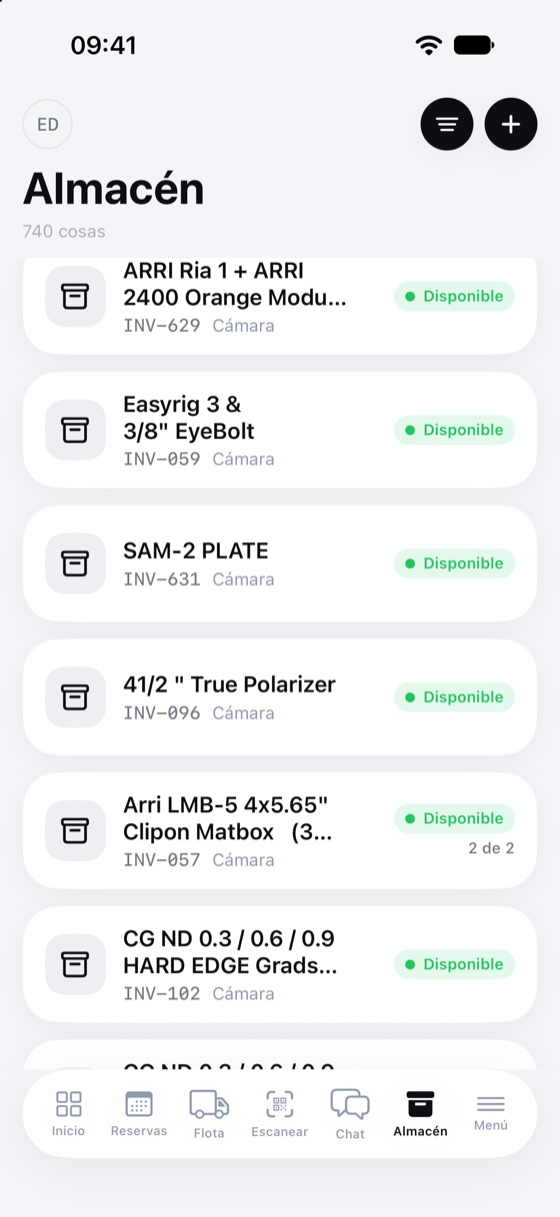
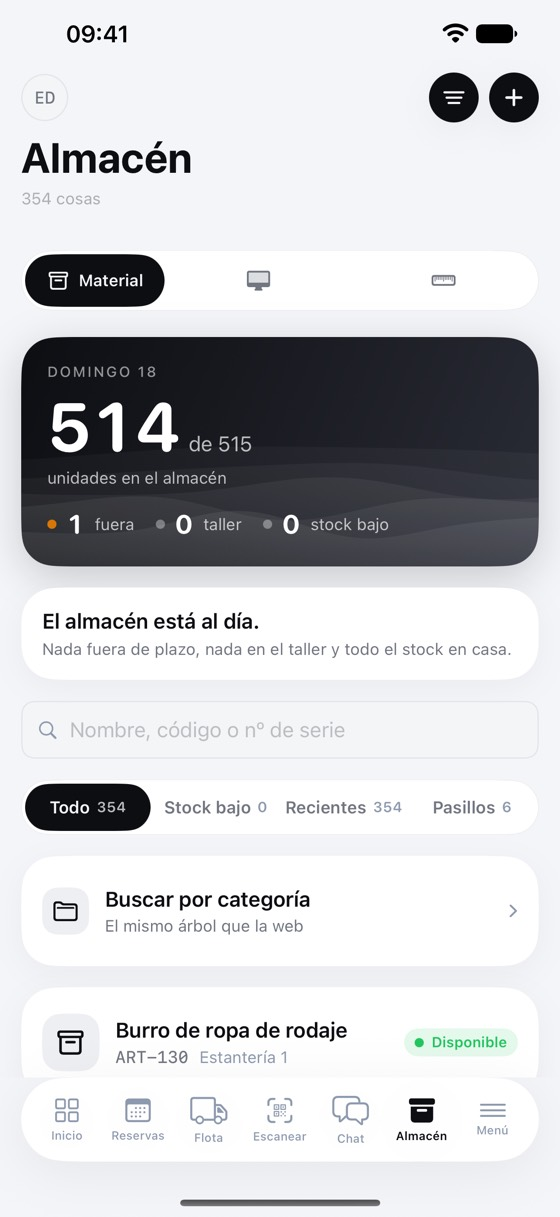
Que la web no enseñe a ningún cliente: una productora inventada
Las capturas salían de una copia ANONIMIZADA de los datos de un cliente, y me
equivoqué al dar eso por limpio. Cambiaba los nombres, sí, pero dejaba dos
cosas que son igual de suyas:

- EL CATÁLOGO. La captura del almacén enseñaba su material artículo por
  artículo y en su orden. Un modelo de cámara suelto es público; la lista de
  lo que una casa tiene, no: es lo que miraría un competidor.
- LAS CIFRAS. «29 vehículos», «819 artículos», «164 personas» dicen el tamaño
  del negocio.

Así que ahora no se anonimiza: se INVENTA una productora entera sobre una
estructura de datos que funciona (`simular.py`, en el repositorio de la
aplicación). Su catálogo se compone de piezas, su flota son doce vehículos con
matrículas que llevan vocales —las de verdad no las llevan, así que no pueden
ser de nadie—, y su árbol de categorías y su tarifario son de cero. Doce
vehículos, 354 artículos, 41 personas. Las tres capturas se rehicieron contra
ese servidor, y el mockup del navegador lleva ahora las mismas cifras, que
antes decía dieciocho vehículos donde el teléfono decía doce.

De paso aparecieron tres cosas que el anonimizador no tocaba y que sí son
identificadores: dieciocho ICCID de SIM reales en las líneas, el operador con
el que trabajan, y la numeración de sus presupuestos.

Y lo que ataba la web al cliente fuera de las capturas:

- «Iniciar sesión» llevaba a su subdominio, escrito a mano, y salía en el
  código, en la etiqueta canónica y en la barra de direcciones. `entrar.html`
[…]

diff --git a/entrar.html b/entrar.html
@@ -3,44 +3,125 @@
 <head>
 <meta charset="utf-8">
 <meta name="viewport" content="width=device-width, initial-scale=1">
-<title>Stokit · entrando</title>
+<title>Stokit · entrar</title>
 <meta name="robots" content="noindex">
 <link rel="icon" type="image/png" href="favicon.png">
 <!-- ══════════════════════════════════════════════════════════════════════════
-     Esto era el «¿de qué empresa eres?» que llevaba a cada subdominio.
+     «¿De qué productora eres?».
 
-     Hoy solo hay una empresa, así que preguntarlo era un paso que no decidía
-     nada. La página se queda —redirigiendo— y no se borra a propósito: hay
-     marcadores y enlaces viejos apuntando aquí, y un 404 en la puerta de
-     entrada es la peor manera de recibir a alguien que quiere trabajar.
+     Esta página existía, llevaba a un subdominio escrito a mano y se convirtió
+     en una redirección cuando solo había una empresa. Eso ataba la web de
+     presentación —que es del PRODUCTO— al nombre de un cliente concreto: salía
+     en el código, en la etiqueta canónica y en la barra de direcciones de
+     cualquiera que pulsara «Iniciar sesión». Stokit se vende a más de una
+     productora, así que vuelve a preguntar.
 
-     Tres capas para que funcione siempre: la cabecera del navegador, el guion
-     y, si no hay ninguna de las dos, un enlace a mano.
+     Cada casa tiene su propia dirección, <su-nombre>.stokit.es. Se recuerda la
+     última en este navegador, así que quien entra a diario escribe una vez y
+     ya; y se queda el enlace a mano por si el guion no corre.
      ══════════════════════════════════════════════════════════════════════ -->
-<meta http-equiv="refresh" content="0; url=https://palmapictures.stokit.es/">
-<link rel="canonical" href="https://palmapictures.stokit.es/">
 <style>
-  :root { color-scheme: light dark; --papel: #eef0f4; --tinta: #14161f; --tinta-2: #4e5566; --sello: #c8102e; }
-  @media (prefers-color-scheme: dark) { :root { --papel: #0b0b0d; --tinta: #eaecf2; --tinta-2: #9aa2b4; --sello: #ff4d5f; } }
-  html, body { height: 100%; }
-  body {
-    margin: 0; display: grid; place-items: center; gap: 0;
-    background: var(--papel); color: var(--tinta);
-    font-family: "IBM Plex Sans", ui-sans-serif, system-ui, -apple-system, sans-serif;
+  :root {
+    color-scheme: light dark;
+    --papel:#eef0f4; --hoja:#fff; --tinta:#14161f; --tinta-2:#4e5566; --tinta-3:#767d8d;
+    --regla:#c6ccd7; --sello:#c8102e; --sobre-sello:#fff;
   }
-  .caja { text-align: center; padding: 26px; }
-  .marca { display: inline-flex; align-items: center; gap: 10px; font-weight: 700; letter-spacing: -0.02em; font-size: 19px; }
-  .punto { width: 9px; height: 9px; background: var(--sello); }
-  p { margin: 18px 0 0; color: var(--tinta-2); font-size: 15px; }
-  a { color: var(--tinta); }
+  @media (prefers-color-scheme: dark) {
+    :root { --papel:#0b0b0d; --hoja:#131418; --tinta:#eaecf2; --tinta-2:#a6adbc; --tinta-3:#838a9a;
+            --regla:#2b303b; --sello:#ff4d5f; --sobre-sello:#14161f; }
+  }
+  * { box-sizing:border-box; }
+  html, body { height:100%; }
+  body {
+    margin:0; display:grid; place-items:center; padding:24px;
+    background:var(--papel); color:var(--tinta);
+    font-family:"IBM Plex Sans", ui-sans-serif, system-ui, -apple-system, sans-serif;
+  }
+  .caja { width:100%; max-width:380px; }
+  .marca { display:inline-flex; align-items:center; gap:10px; margin-bottom:26px; }
+  .marca svg { width:20px; height:20px; }
+  .marca svg path { fill:currentColor; }
+  .marca b { font-family:Archivo, ui-sans-serif, system-ui, sans-serif; font-weight:800; font-size:17px; letter-spacing:-.035em; }
+  h1 { margin:0 0 8px; font-family:Archivo, ui-sans-serif, system-ui, sans-serif;
+       font-size:27px; font-weight:700; letter-spacing:-.035em; line-height:1.1; }
+  p.pie { margin:0 0 22px; color:var(--tinta-2); font-size:14.5px; line-height:1.55; }
+  label { display:block; font-family:"IBM Plex Mono", ui-monospace, monospace;
+          font-size:10.5px; font-weight:600; letter-spacing:.2em; text-transform:uppercase;
+          color:var(--tinta-3); margin-bottom:8px; }
+  .campo { display:flex; align-items:stretch; border:1px solid var(--regla); background:var(--hoja); }
+  .campo:focus-within { border-color:var(--tinta); }
+  .campo input {
+    flex:1; min-width:0; border:0; background:transparent; color:var(--tinta);
+    padding:0 12px; height:48px; font:inherit; font-size:16px; outline:none;
+  }
+  .campo .sufijo { display:flex; align-items:center; padding-inline-end:12px;
+                   font-family:"IBM Plex Mono", monospace; font-size:13px; color:var(--tinta-3); }
+  button {
+    margin-top:12px; width:100%; height:48px; border:1px solid var(--tinta);
+    background:var(--tinta); color:var(--papel); cursor:pointer;
+    font-family:"IBM Plex Mono", monospace; font-size:11.5px; font-weight:600;
+    letter-spacing:.11em; text-transform:uppercase;
+    transition:background .17s, border-color .17s, color .17s;
+  }
+  button:hover { background:var(--sello); border-color:var(--sello); color:var(--sobre-sello); }
+  .aviso { margin-top:12px; font-size:13px; color:var(--sello); min-height:1.2em; }
+  .atras { margin-top:26px; font-size:13.5px; }
+  .atras a { color:var(--tinta-2); }
 </style>
 </head>
 <body>
   <div class="caja">
-    <span class="marca"><i class="punto"></i> Stokit</span>
-    <p>Llevándote a tu Stokit…</p>
-    <p><a href="https://palmapictures.stokit.es/">Entrar ahora</a></p>
+    <span class="marca">
+      <svg viewBox="0 0 100 100" aria-hidden="true"><path d="M0 0 H100 V41.9 H73.9 V26.7 H27.6 V41.9 H0 Z"/><path d="M0 58.1 H27.6 V71.1 H73.9 V58.1 H100 V100 H0 Z"/></svg>
+      <b>Stokit</b>
+    </span>
+
+    <h1>¿De qué productora eres?</h1>
+    <p class="pie">Cada casa tiene su propia dirección. Escribe la tuya y te llevo.</p>
+
+    <form id="f" autocomplete="on">
+      <label for="casa">Tu productora</label>
+      <div class="campo">
+        <input id="casa" name="casa" inputmode="url" autocapitalize="none"
+               autocorrect="off" spellcheck="false" placeholder="tuproductora" required>
+        <span class="sufijo">.stokit.es</span>
+      </div>
+      <button type="submit">Entrar</button>
+      <p class="aviso" id="aviso" role="status"></p>
+    </form>
+
+    <p class="atras"><a href="/">Volver a Stokit</a></p>
   </div>
-  <script>location.replace('https://palmapictures.stokit.es/');</script>
+
+<script>
+(function () {
+  'use strict';
+  var f = document.getElementById('f'), campo = document.getElementById('casa'), aviso = document.getElementById('aviso');
+
+  /* Quien entra todos los días no tiene por qué escribirlo cada vez. */
+  try {
+    var ultima = localStorage.getItem('stokit_casa');
+    if (ultima) campo.value = ultima;
+  } catch (e) {}
+  campo.focus();
+  campo.select();
+
+  f.addEventListener('submit', function (e) {
+    e.preventDefault();
+    /* Se acepta lo que escriba la gente —«Tu Productora», con espacios, o
+       «tuproductora.stokit.es» entero— y se queda solo la etiqueta. */
+    var n = campo.value.trim().toLowerCase()
+      .replace(/^https?:\/\//, '')
+      .replace(/\.stokit\.es.*$/, '')
+      .replace(/\/.*$/, '')
+      .normalize('NFD').replace(/[̀-ͯ]/g, '')
+      .replace(/[^a-z0-9-]+/g, '-')
+      .replace(/^-+|-+$/g, '');
+    if (!n) { aviso.textContent = 'Escribe el nombre de tu productora.'; campo.focus(); return; }
+    try { localStorage.setItem('stokit_casa', n); } catch (e) {}
+    location.href = 'https://' + n + '.stokit.es/';
+  });
+})();
+</script>
 </body>
 </html>

diff --git a/index.html b/index.html
@@ -371,10 +371,16 @@ section { padding-block:var(--paso); }
    1284×2778 y reducida a 560 de ancho (el doble de lo que ocupa en pantalla,
    para que en una retina no se vea blanda).
 
-   Las capturas salen de un Stokit local cargado con una COPIA ANONIMIZADA de
-   los datos: misma forma y mismo volumen, pero cada nombre, cada matrícula y
-   cada correo son inventados. El guion que lo hace está en el repositorio de
-   la aplicación; si hay que repetirlas, se vuelve a pasar antes.
+   Las capturas salen de un Stokit local cargado con una PRODUCTORA INVENTADA.
+   Al principio se usó una copia anonimizada de los datos de un cliente, y eso
+   estaba mal: cambiaba los nombres pero dejaba el catálogo —la lista de lo que
+   esa casa tiene, artículo por artículo— y las cifras, que dicen el tamaño del
+   negocio. Un modelo de cámara es público; la lista de lo que uno tiene, no.
+
+   Así que ahora la empresa no existe: su catálogo, su flota, su gente y su
+   tamaño se generan de cero. Los guiones están en el repositorio de la
+   aplicación (`anonimizar.py` y `simular.py`); si hay que repetir una captura,
+   se vuelve a pasar la cadena entera antes.
 
    Medidas: proporción de pantalla 1284:2778, bisel del 3,5 % del ancho, radio
    exterior del 13,5 % y la isla al 29 % del ancho, que es lo que mide en un
@@ -435,7 +441,7 @@ section { padding-block:var(--paso); }
 .via-hito { position:absolute; top:18px; left:var(--x); width:9px; height:9px; margin-inline-start:-4.5px; border:1px solid var(--regla); background:var(--hoja); transition:background .3s,border-color .3s,transform .3s cubic-bezier(.2,1.4,.4,1); }
 .via-hito.pasado { background:var(--sello); border-color:var(--sello); transform:scale(1.25); }
 .via-nodo { position:absolute; top:14px; left:var(--via-nodo,12.5%); margin-inline-start:-8.5px; width:17px; height:17px; background:var(--sello); box-shadow:0 0 0 4px color-mix(in srgb,var(--sello) 22%,transparent); transition:left .12s linear; }
-.via-nodo::after { content:'ARRI Alexa 35'; position:absolute; left:50%; bottom:calc(100% + 9px); transform:translateX(-50%); padding:3px 8px; white-space:nowrap; font-family:"IBM Plex Mono",monospace; font-size:10px; font-weight:600; letter-spacing:.1em; text-transform:uppercase; background:var(--sello); color:var(--sobre-sello); }
+.via-nodo::after { content:'Cuerpo de cámara A'; position:absolute; left:50%; bottom:calc(100% + 9px); transform:translateX(-50%); padding:3px 8px; white-space:nowrap; font-family:"IBM Plex Mono",monospace; font-size:10px; font-weight:600; letter-spacing:.1em; text-transform:uppercase; background:var(--sello); color:var(--sobre-sello); }
 .eslabones { display:grid; gap:1px; background:var(--regla-fina); border:1px solid var(--regla-fina); border-top:0; }
 @media (min-width:900px){ .eslabones { grid-template-columns:repeat(4,1fr); } }
 .eslabon { position:relative; background:var(--hoja); padding:28px 22px; display:grid; gap:8px; align-content:start; overflow:hidden; }
@@ -597,9 +603,9 @@ footer { border-top:1px solid var(--regla); background:var(--hoja); }
         </div>
 
         <div class="mini-cifras">
-          <div class="mini-cifra"><b>64</b><span>Personas</span></div>
-          <div class="mini-cifra"><b>18</b><span>Vehículos</span></div>
-          <div class="mini-cifra"><b>642</b><span>Artículos</span></div>
+          <div class="mini-cifra"><b>41</b><span>Personas</span></div>
+          <div class="mini-cifra"><b>12</b><span>Vehículos</span></div>
+          <div class="mini-cifra"><b>354</b><span>Artículos</span></div>
           <div class="mini-cifra"><b>47</b><span>Presupuestos</span></div>
         </div>
 
@@ -642,15 +648,15 @@ footer { border-top:1px solid var(--regla); background:var(--hoja); }
       <div class="marco rev d2" data-lejos="0.08" aria-hidden="true">
         <div class="marco-barra"><i></i><i></i><i></i><span class="marco-url">tuproductora.stokit.es/inventario</span></div>
         <div class="inv-deps">
-          <div class="inv-dep on"><b>Todo</b><span>642 fichas</span><div class="inv-bar"><i></i><i></i><i></i></div></div>
-          <div class="inv-dep"><b>Cámara</b><span>214 fichas</span><div class="inv-bar"><i></i><i></i><i></i></div></div>
-          <div class="inv-dep"><b>Luces</b><span>186 fichas</span><div class="inv-bar"><i></i><i></i><i></i></div></div>
-          <div class="inv-dep"><b>Grip</b><span>98 fichas</span><div class="inv-bar"><i></i><i></i><i></i></div></div>
+          <div class="inv-dep on"><b>Todo</b><span>354 fichas</span><div class="inv-bar"><i></i><i></i><i></i></div></div>
+          <div class="inv-dep"><b>Cámara</b><span>142 fichas</span><div class="inv-bar"><i></i><i></i><i></i></div></div>
+          <div class="inv-dep"><b>Luces</b><span>118 fichas</span><div class="inv-bar"><i></i><i></i><i></i></div></div>
+          <div class="inv-dep"><b>Grip</b><span>94 fichas</span><div class="inv-bar"><i></i><i></i><i></i></div></div>
         </div>
         <table class="mini-tabla">
           <thead><tr><th>Código</th><th>Nombre</th><th>Categoría</th><th>Estado</th></tr></thead>
           <tbody>
-            <tr><td>CAM-014</td><td>ARRI Alexa 35</td><td>Cámara / Cuerpos</td><td><span class="mini-pill uso">En rodaje</span></td></tr>
+            <tr><td>CAM-014</td><td>Cuerpo de cámara A</td><td>Cámara / Cuerpos</td><td><span class="mini-pill uso">En rodaje</span></td></tr>
             <tr><td>CAM-061</td><td>Juego de ópticas 6×</td><td>Cámara / Ópticas</td><td><span class="mini-pill ok">En casa</span></td></tr>
             <tr><td>LUZ-072</td><td>Kit HMI 2.5 kW</td><td>Luces / Descarga</td><td><span class="mini-pill uso">En rodaje</span></td></tr>
             <tr><td>GRP-118</td><td>Dolly con vías 12 m</td><td>Grip / Travelling</td><td><span class="mini-pill av">En el taller</span></td></tr>
@@ -790,10 +796,10 @@ footer { border-top:1px solid var(--regla); background:var(--hoja); }
         <div class="movil-marco">
           <span class="movil-pantalla">
             <img src="app/vehiculo.jpg" width="560" height="1217" loading="lazy" decoding="async"
-                 alt="La ficha de un vehículo en el iPhone: la furgoneta en grande y, debajo, cuatro tarjetas con la ITV que queda, los kilómetros, el seguro y los partes abiertos.">
+                 alt="Los vehículos en el iPhone: un mapa con la flota situada en la base, un contador con cuántos hay allí, y debajo la lista con su matrícula, su tipo y si están libres.">
           </span>
         </div>
-        <p class="movil-pie">Un vehículo</p>
+        <p class="movil-pie">Vehículos</p>
       </div>
 
       <div class="movil detras" data-lejos="0.13">
@@ -870,7 +876,7 @@ footer { border-top:1px solid var(--regla); background:var(--hoja); }
           <div class="via-nodo" id="viaNodo"></div>
         </div>
         <div class="eslabones" id="eslabones">
-          <div class="eslabon"><span class="campo">01 · Material</span><b>ARRI Alexa 35</b><span>Salida registrada con revisión fotográfica, escaneando su QR.</span></div>
+          <div class="eslabon"><span class="campo">01 · Material</span><b>Cuerpo de cámara A</b><span>Salida registrada con revisión fotográfica, escaneando su QR.</span></div>
           <div class="eslabon"><span class="campo">02 · Flota</span><b>Furgoneta 01</b><span>Vehículo asignado y bloqueado en el calendario esos días.</span></div>
           <div class="eslabon"><span class="campo">03 · Rodaje</span><b>Spot Meridiano</b><span>El proyecto de destino, con sus fechas y su equipo.</span></div>
           <div class="eslabon"><span class="campo">04 · Presupuesto</span><b>Línea del cliente</b><span>Al precio del catálogo vigente en esa fecha, no al del rodaje anterior.</span></div>

diff --git a/manuales/material.html b/manuales/material.html
@@ -121,7 +121,7 @@
       <p>
         Antes los kits se hacían con <strong>categorías</strong>: hay 57 ramas del árbol con
         varios artículos dentro haciendo de kit, y por eso muchas categorías se llaman «Arri
-        Alexa 35» o «Mattebox» y el desplegable de categorías parece una lista de material.
+        Cuerpo A» o «Matte box» y el desplegable de categorías parece una lista de material.
       </p>
       <p>
         Para pasarlas: entra en la categoría y, al final de la ruta, pulsa
@@ -130,7 +130,7 @@
         categoría se queda donde estaba, y para deshacerlo se borra el artículo nuevo.
       </p>
       <p>
-        <strong>Hay que ir una a una, y es a propósito.</strong> «Camera / Arri Alexa 35» con
+        <strong>Hay que ir una a una, y es a propósito.</strong> «Cámara / Cuerpos» con
         sus 24 artículos es un kit; «Facilities / Support» con 33 es una categoría de verdad, y
         ninguna regla automática las distingue. Convertirlas todas de golpe llenaría el
         inventario de kits que no lo son.
@@ -243,7 +243,7 @@
       <span class="ojo-tit">Un QR para el pack entero</span>
       <p>
         La plantilla <strong>Pack de material</strong> imprime una ficha por
-        <em>categoría</em>: «Camera › Arri Alexa Mini» con la lista de lo que tiene
+        <em>categoría</em>: «Cámara › Cuerpos» con la lista de lo que tiene
         que haber dentro y un QR. Al escanearlo se abre el inventario ya filtrado
         por esa categoría, así que se ve de un vistazo qué debería llevar el flight
         y qué falta. En la etiqueta pequeña caben tres líneas de contenido y el

diff --git a/manuales/flota.html b/manuales/flota.html
@@ -74,9 +74,9 @@
       <span class="nota-tit">La insignia dice si puedes contar con él</span>
       <p>
         En la lista, un vehículo reservado lleva su rodaje <strong>y las
-        fechas</strong>: «En rodaje · Trivago · 2–8 sep» si está fuera ahora, o
-        «Reservado · Netflix · 20–30 oct» —en gris— si es para más adelante. Antes
-        decía solo «En Proyecto · Trivago» y únicamente para lo de hoy, así que
+        fechas</strong>: «En rodaje · Campaña Solsticio · 2–8 sep» si está fuera ahora, o
+        «Reservado · Serie Levante · 20–30 oct» —en gris— si es para más adelante. Antes
+        decía solo «En Proyecto · Campaña Solsticio» y únicamente para lo de hoy, así que
         veinte días reservados el mes que viene no se veían en ninguna parte.
       </p>
     </div>
@@ -288,7 +288,7 @@
     <h2 id="calendario-pantalla">A pantalla completa</h2>
     <p>
       El calendario tiene su propia dirección:
-      <strong>palmapictures.stokit.es/calendario</strong>. Se abre sin barra
+      <strong>tuproductora.stokit.es/calendario</strong>. Se abre sin barra
       lateral y sin pestañas, con toda la ventana para la rejilla — como el
       Excel, que era un fichero y nada más.
     </p>

diff --git a/manuales/tecnologia.html b/manuales/tecnologia.html
@@ -364,7 +364,7 @@
     </p>
     <p>
       Cada línea lleva el <strong>logo de su operadora</strong> a color si en
-      «Compañía» pone algo reconocible: Movistar, Telefónica (también «TF»),
+      «Compañía» pone algo reconocible: Anuncio Norte, Telefónica (también «TF»),
       Vodafone, Orange, Yoigo, MásMóvil, Digi, O2, Pepephone, Lowi, Jazztel, Simyo o
       Lebara. Cualquier otro texto se enseña igual, con una ficha neutra y su
       nombre. La compañía se pone al añadir o editar la línea, o llega del Excel.
@@ -428,7 +428,7 @@
       <strong>Tecnología → MIFIs.</strong> Los routers portátiles: quién los tiene, en
       qué rodaje y desde cuándo. Dos vistas, <strong>Tablero</strong> y
       <strong>Tabla</strong>, y filtros por estado —Disponible, En uso, Avería,
-      Baja— y por compañía —Movistar, Vodafone, Orange, Yoigo, Otra.
+      Baja— y por compañía —Anuncio Norte, Vodafone, Orange, Yoigo, Otra.
     </p>
     <p>
       Arriba, las cifras del parque (libres, en rodaje, en reparación, sin PUK) y una

diff --git a/manuales/empezar.html b/manuales/empezar.html
@@ -49,8 +49,8 @@
     <h2 id="entrar">Entrar</h2>
     <p>
       Stokit no tiene una única dirección: <strong>cada empresa entra por la
-      suya</strong>. La de Palma Pictures es
-      <code>palmapictures.stokit.es</code>. Si entras por <code>stokit.es</code> a
+      suya</strong>. La tuya es
+      <code>tuproductora.stokit.es</code>. Si entras por <code>stokit.es</code> a
       secas verás la web de presentación, no la aplicación.
     </p>
     <ol class="pasos">
@@ -156,7 +156,7 @@
       Stokit se instala como una aplicación. No hay que bajar nada de la App Store:
     </p>
     <ol class="pasos">
-      <li>Abre <strong>palmapictures.stokit.es</strong> en <strong>Safari</strong>
+      <li>Abre <strong>tuproductora.stokit.es</strong> en <strong>Safari</strong>
         (en Chrome no sale la opción).</li>
       <li>Toca el botón de <strong>Compartir</strong>, el cuadrado con la flecha
         hacia arriba.</li>

diff --git a/manuales/buscar.js b/manuales/buscar.js
@@ -6,7 +6,7 @@ window.INDICE_MANUALES = [
  {
   "donde": "Empezar",
   "titulo": "Entrar",
-  "texto": "Stokit no tiene una única dirección: cada empresa entra por la suya . La de Palma Pictures es palmapictures.stokit.es . Si entras por…",
+  "texto": "Stokit no tiene una única dirección: cada empresa entra por la suya . La tuya es tuproductora.stokit.es . Si entras por…",
   "url": "empezar.html#entrar",
   "claves": [
    "login",
@@ -479,7 +479,7 @@ window.INDICE_MANUALES = [
  {
   "donde": "Flota",
   "titulo": "A pantalla completa",
-  "texto": "El calendario tiene su propia dirección: palmapictures.stokit.es/calendario . Se abre sin barra lateral y sin pestañas, con toda la ventana…",
+  "texto": "El calendario tiene su propia dirección: tuproductora.stokit.es/calendario . Se abre sin barra lateral y sin pestañas, con toda la ventana…",
   "url": "flota.html#calendario-pantalla",
   "claves": []
  },

diff --git a/manuales/sistema.html b/manuales/sistema.html
@@ -82,7 +82,7 @@
     </p>
     <ol class="pasos">
       <li><strong>+ Crear un enlace</strong> y ponle nombre: «Rodajes», «Producción
-        HBO»… Ese nombre es el que saldrá en el registro de actividad cuando muevan un
+        Documental Bahía»… Ese nombre es el que saldrá en el registro de actividad cuando muevan un
         coche, así que con dos enlaces repartidos sabrás cuál de los dos fue.</li>
       <li><strong>Copiar</strong> y pásasela a quien tenga que usarla.</li>
       <li>Debajo de cada enlace verás <strong>cuántas veces se ha abierto</strong> y

diff --git a/README.md b/README.md
@@ -4,7 +4,7 @@ Página estática. No necesita servidor ni compilación.
 
 ```
 index.html      la página de presentación
-entrar.html     redirección a palmapictures.stokit.es (era el "¿de qué empresa eres?")
+entrar.html     redirección a tuproductora.stokit.es (era el "¿de qué empresa eres?")
 manuales/       los manuales de la aplicación  →  stokit.es/manuales
 ```
 
@@ -48,6 +48,6 @@ lanza `generar-indice.py` y después `comprobar-enlaces.py`.
 ## Pendiente antes de enseñarla fuera
 
 - El correo de contacto es `hola@stokit.es` y **todavía no existe**.
-- El botón «Iniciar sesión» va directo a `palmapictures.stokit.es`. Mientras
+- El botón «Iniciar sesión» va directo a `tuproductora.stokit.es`. Mientras
   solo haya una empresa no hay nada que elegir; `entrar.html` se queda como
   redirección para los enlaces viejos.
